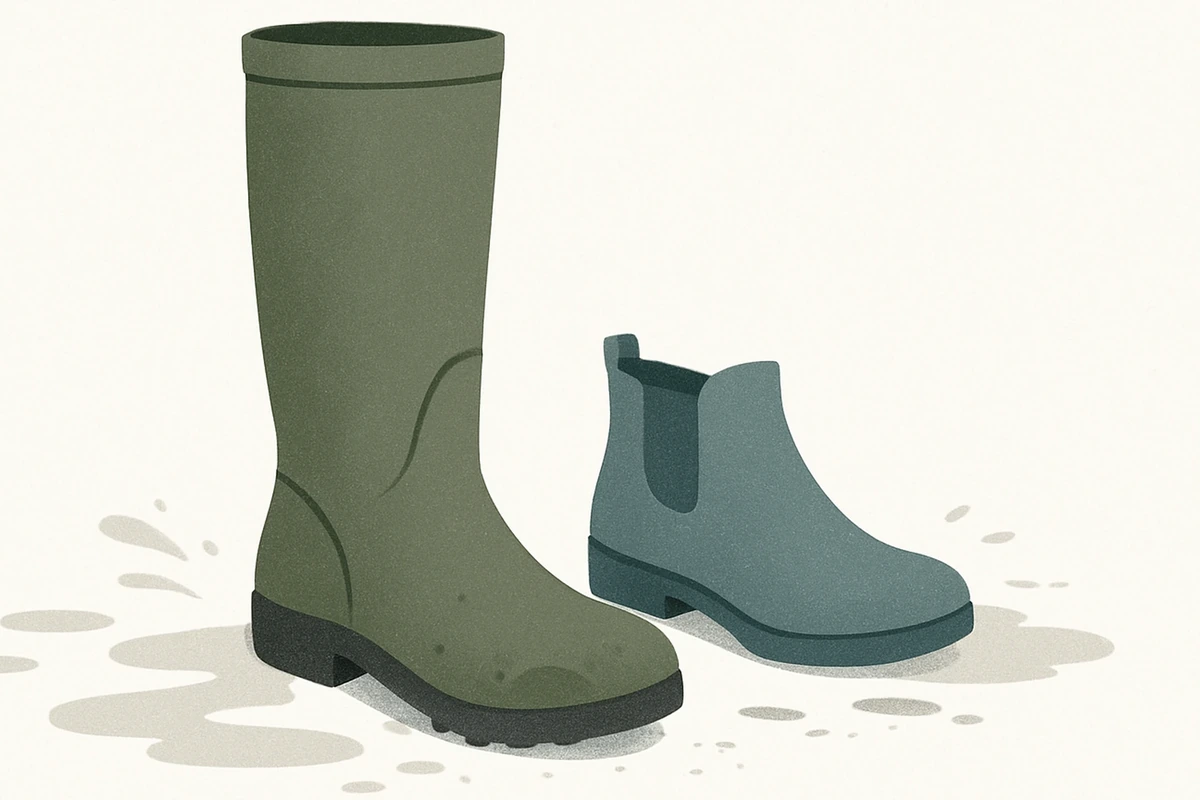
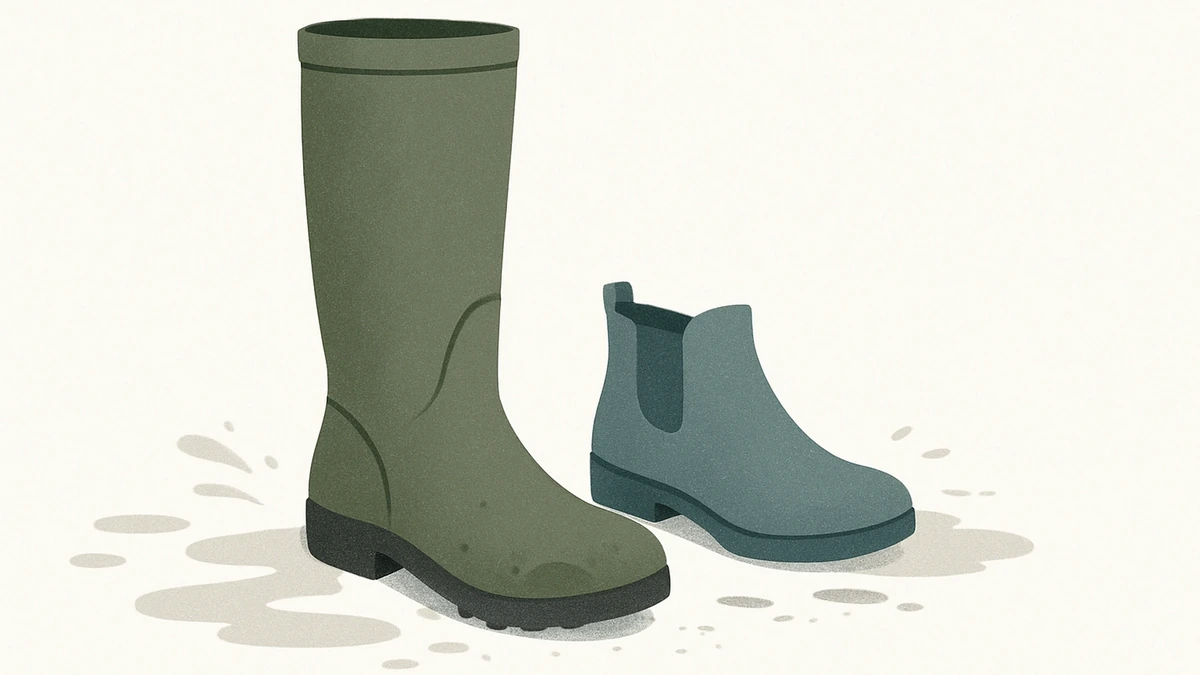
Regenerate home hero crops to 16:9

diff --git a/scripts/regenerate_hero_variants.py b/scripts/regenerate_hero_variants.py
@@ -1,0 +1,98 @@
+from __future__ import annotations
+
+import argparse
+import sys
+from dataclasses import dataclass
+from pathlib import Path
+
+
+REPO_ROOT = Path(__file__).resolve().parents[1]
+if str(REPO_ROOT) not in sys.path:
+    sys.path.insert(0, str(REPO_ROOT))
+
+
+from agents.image_generation_agent import ImageGenerationAgent  # noqa: E402
+
+
+@dataclass
+class _NullLLM:
+    def complete_json(self, *, system: str, user: str) -> dict:  # pragma: no cover
+        raise RuntimeError("LLM should not be used when regenerating variants from source")
+
+
+@dataclass
+class _NullImageGen:
+    def generate(self, *, prompt: str, fmt: str, width: int, height: int) -> bytes:  # pragma: no cover
+        raise RuntimeError("Image generation should not be used when regenerating variants from source")
+
+
+def _iter_post_dirs(posts_dir: Path) -> list[Path]:
+    if not posts_dir.exists():
+        return []
+    return sorted([p for p in posts_dir.iterdir() if p.is_dir()], key=lambda p: p.name)
+
+
+def main() -> int:
+    p = argparse.ArgumentParser(
+        description=(
+            "Regenerate hero variants (hero.webp / hero_home.webp / hero_card.webp) from hero_source.webp "
+            "using the current variant dimensions. No OpenAI calls are made."
+        )
+    )
+    p.add_argument("--posts-dir", default="site/public/images/posts")
+    p.add_argument("--slug", default=None, help="Only regenerate for this slug")
+    p.add_argument("--dry-run", action="store_true")
+    args = p.parse_args()
+
+    posts_dir = Path(args.posts_dir)
+    targets: list[Path]
+
+    if args.slug:
+        targets = [posts_dir / str(args.slug)]
+    else:
+        targets = _iter_post_dirs(posts_dir)
+
+    agent = ImageGenerationAgent(
+        llm=_NullLLM(),
+        image_gen=_NullImageGen(),
+        public_images_dir=str(posts_dir.parent),
+        posts_subdir=posts_dir.name,
+    )
+
+    updated = 0
+    skipped_no_source = 0
+    missing_dir = 0
+
+    for post_dir in targets:
+        if not post_dir.exists() or not post_dir.is_dir():
+            missing_dir += 1
+            continue
+
+        slug = post_dir.name
+        source = post_dir / "hero_source.webp"
+        if not source.exists() or source.stat().st_size == 0:
+            skipped_no_source += 1
+            print(f"⏭  {slug}: missing hero_source.webp (skipping)")
+            continue
+
+        if args.dry_run:
+            print(f"🧪 {slug}: would regenerate variants from hero_source.webp")
+            continue
+
+        agent.ensure_variants_from_source(source, post_dir)
+        updated += 1
+        print(f"✅ {slug}: variants regenerated/validated")
+
+    print(
+        "\nSummary:\n"
+        f"- processed: {len(targets)}\n"
+        f"- updated: {updated}\n"
+        f"- skipped (no source): {skipped_no_source}\n"
+        f"- missing dir: {missing_dir}\n"
+    )
+
+    return 0
+
+
+if __name__ == "__main__":
+    raise SystemExit(main())

diff --git a/agents/image_generation_agent.py b/agents/image_generation_agent.py
@@ -214,6 +214,13 @@ class ImageGenerationAgent:
     # Image derivation
     # ----------------------------
 
+    def ensure_variants_from_source(self, disk_source: Path, post_dir: Path) -> None:
+        """Regenerate derived hero variants from an existing canonical source image.
+
+        This does not call the image model; it only crops/resizes deterministically.
+        """
+        self._ensure_variants_from_source(disk_source, post_dir)
+
     def _ensure_variants_from_source(self, disk_source: Path, post_dir: Path) -> None:
         src_bytes = disk_source.read_bytes()
         self._write_variants_from_bytes(post_dir, src_bytes)
@@ -222,7 +229,13 @@ class ImageGenerationAgent:
         for v in self._VARIANTS:
             out_path = post_dir / v.filename
             if out_path.exists() and out_path.stat().st_size > 0:
-                continue
+                try:
+                    with Image.open(out_path) as existing:
+                        if existing.size == (v.width, v.height):
+                            continue
+                except Exception:
+                    # If the file can't be opened/validated, regenerate it.
+                    pass
             derived = self._crop_resize(src_bytes, target_w=v.width, target_h=v.height)
             self._atomic_write(out_path, derived)
 
